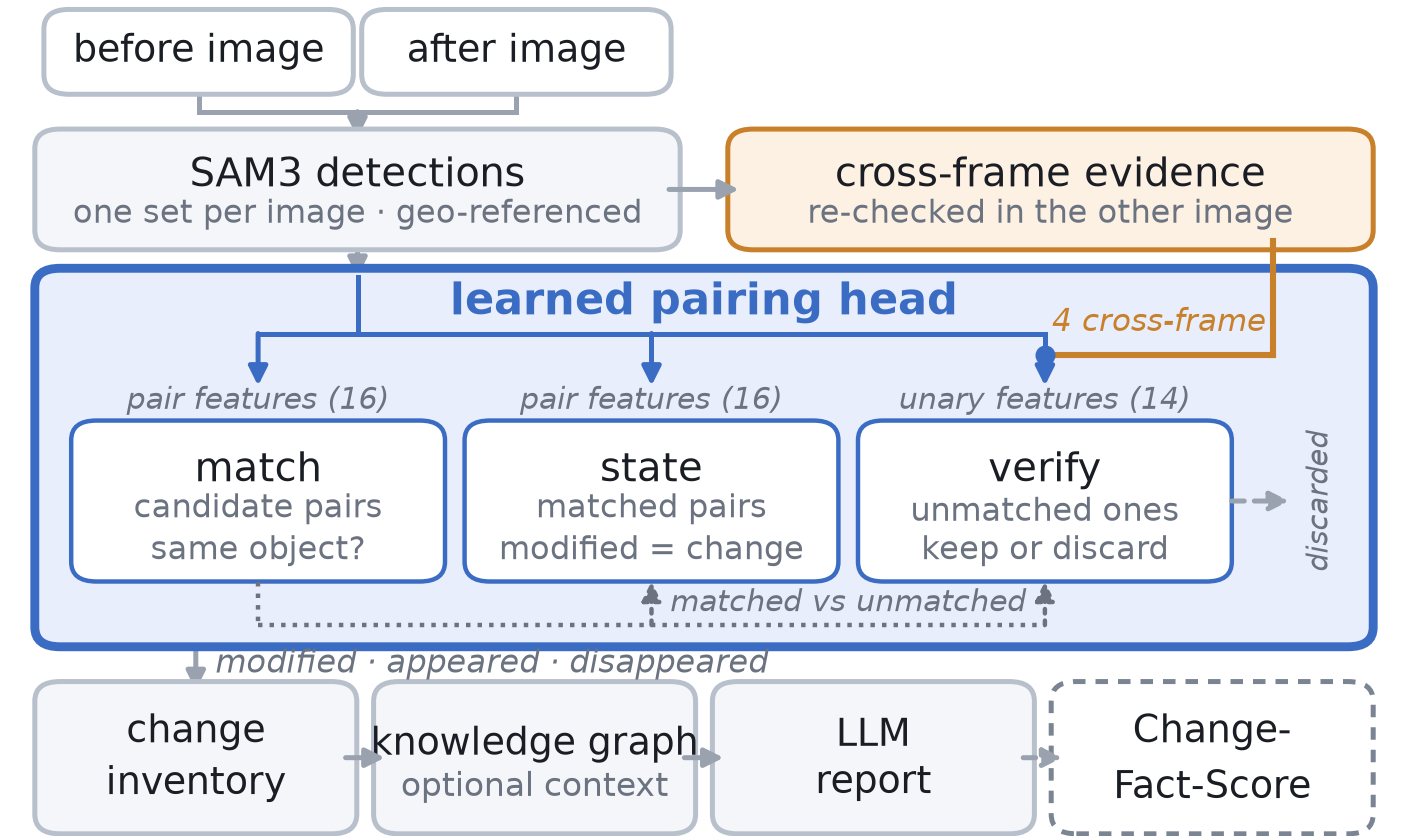
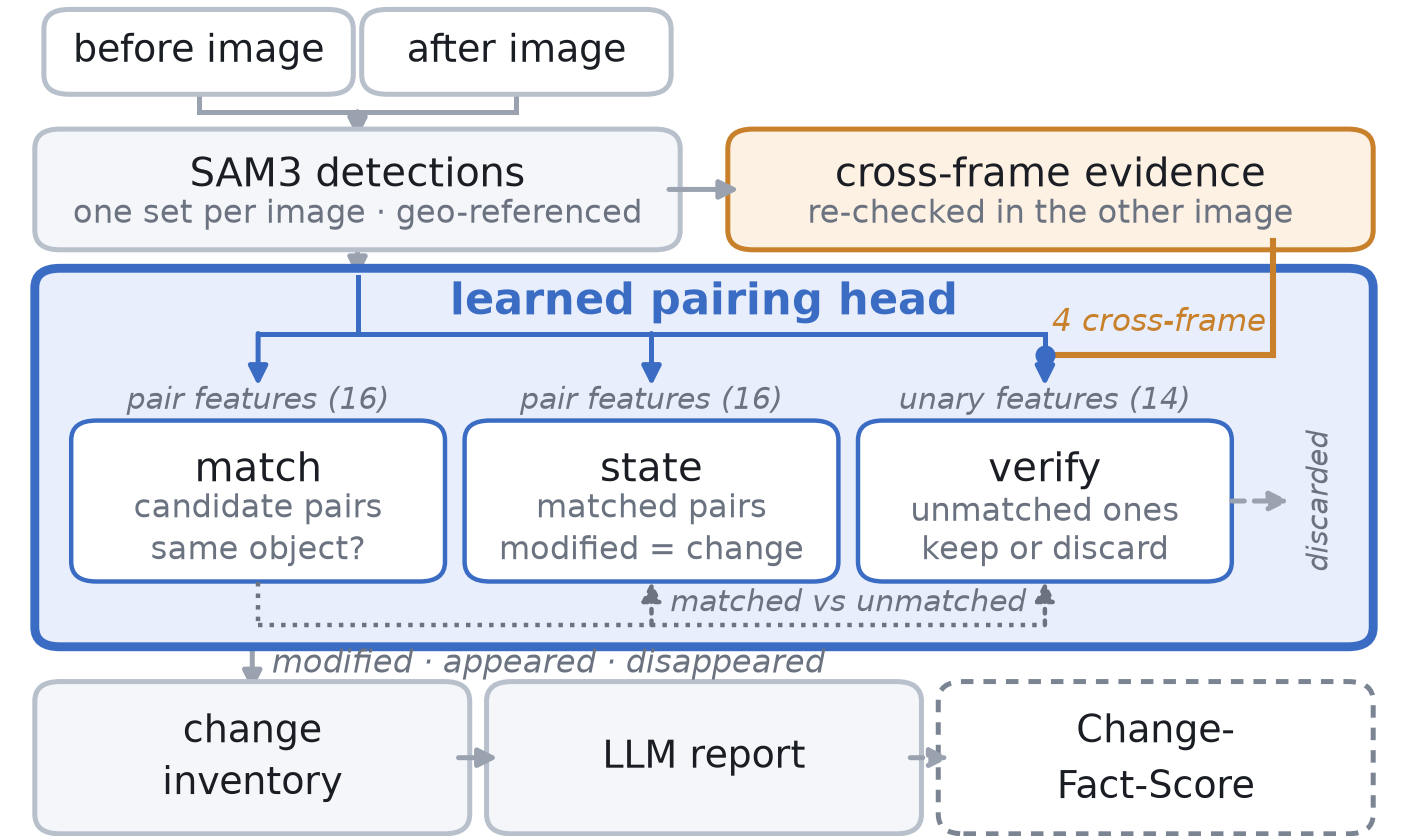
Drop the knowledge-graph box; draw the path that is always taken
In the tail strip the box claimed the inventory reaches the LLM through
the graph. It does not. user_prompt() appends render_inventory(ev) for
every llm_* mode, then appends graph_context as an ADDITIONAL block for
llm_graphrag alone, so the graph sits beside the inventory in one
condition of six and never carries it. build_contexts() is itself only
run when llm_graphrag is among the requested modes, and it reads the
evidences -- a branch off the inventory, not a stage after it.

A bypass edge would have said that, but there is nowhere to route one:
0.018 of clear space above the tail row, 0.010 below, and growing the
row costs a seventh page. So the strip now shows the three stages every
condition passes through, and the grounding conditions are enumerated in
the text, where they can be stated exactly. The caption points there
instead of describing the graph in half a sentence.

Three boxes also read better than four at this width: the LLM report
label fits on one line and nothing is cramped.

Claude-Session: https://claude.ai/code/session_01Uzd5z5zjzi4ZxCrgX4PyRf

Changed region(s): [[0.0938, 0.7738, 0.9375, 1.0]]

diff --git a/scripts/gen_paper_figure.py b/scripts/gen_paper_figure.py
@@ -279,19 +279,29 @@ def build() -> None:
 
     # ---- tail -------------------------------------------------------------
     ty, th = 0.220, 0.124
-    n, gap = 4, 0.028
+    n, gap = 3, 0.028
     bw = (W - gap * (n - 1)) / n
     # (label, sub): the label may wrap, and only `sub` is set in muted type, so
     # a wrapped label is never mistaken for a label plus a caption.
     # "change inventory", not "change instances". change_instances() returns
     # the three change types and feeds the instance/CD metrics; the report path
     # runs on ChangeEvidence, which from_pairing_result() fills from ALL of
-    # result.outcomes, and which build_contexts()/prompts.py then read. The
-    # box on this path is the inventory: three change types in detail plus the
-    # unchanged total. The old name belonged to the other consumer.
+    # result.outcomes, and which prompts.py then reads. The box on this path is
+    # the inventory: three change types in detail plus the unchanged total. The
+    # old name belonged to the other consumer.
+    #
+    # No knowledge-graph box. Drawn in this strip it claimed the inventory
+    # reaches the LLM through the graph, and it does not: user_prompt() appends
+    # render_inventory(ev) for every llm_* mode and appends graph_context as an
+    # ADDITIONAL block for llm_graphrag alone, so the graph sits beside the
+    # inventory in one condition of six, never carrying it. A bypass edge would
+    # say that, but there is no room to route one above, below or through this
+    # row, and the row cannot grow without costing a seventh page. So the strip
+    # draws the path that is always taken, and the grounding conditions --
+    # graph included -- are enumerated in the text where they can be stated
+    # exactly.
     tail = [(("change\ninventory", None), FILL_STAGE, EDGE_STAGE, "-"),
-            (("knowledge graph", "optional context"), FILL_STAGE, EDGE_STAGE, "-"),
-            (("LLM\nreport", None), FILL_STAGE, EDGE_STAGE, "-"),
+            (("LLM report", None), FILL_STAGE, EDGE_STAGE, "-"),
             (("Change-\nFact-Score", None), FILL_EVAL, EDGE_EVAL, (0, (2.5, 2)))]
     for i, ((label, sub), fill, edge, ls) in enumerate(tail):
         x = L + i * (bw + gap)

diff --git a/paper/sections/method.tex b/paper/sections/method.tex
@@ -11,8 +11,8 @@ assignment then splits the detections into paired and leftover, deciding which
 scores count. The dashed edge leaving verify is suppression: a detection below
 its threshold is never emitted, and that is where the cross-frame gain
 appears. Matched and moved pairs are not changes; they reach the prompt only
-as a count. In one condition the graph adds a block beside the inventory,
-never replacing it.}
+as a count. What the report is conditioned on varies by grounding condition
+(Section~\ref{ssec:grounding}).}
 \label{fig:architecture}
 \end{figure}
 
@@ -125,6 +125,7 @@ $1 - \text{CFS-P}$. We retain it in tables only as an interpretable complement
 to precision, not as an additional measurement.
 
 \subsection{Grounding Conditions}
+\label{ssec:grounding}
 
 Report generation is conditioned on progressively more of the pipeline's
 structure, giving the ablation of Section~\ref{ssec:ablation}:
